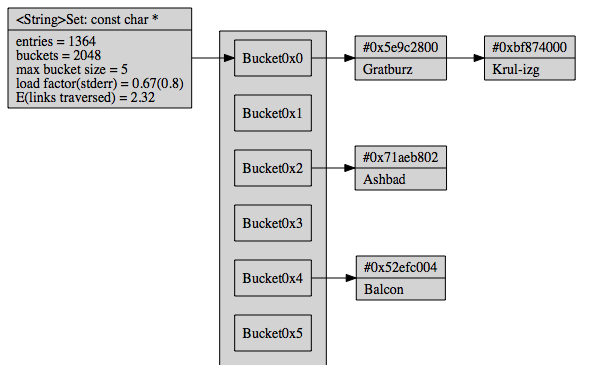
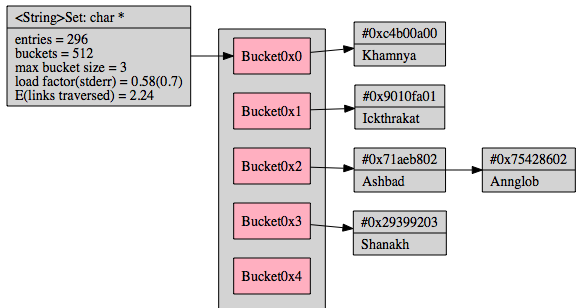
Pink.

diff --git a/test/TestSet.h b/test/TestSet.h
@@ -103,7 +103,7 @@ static void PE_(graph)(const struct E_(Set) *const set, const char *const fn) {
 		struct E_(SetElement) *x, *x_prev, *xt;
 		fprintf(fp, "\tsubgraph cluster_buckets {\n"
 			"\t\tstyle=filled;\n"
-			/*"\t\tnode [color=white];\n"*/);
+			"\t\tnode [fillcolor=lightpink];\n");
 		for(b = set->buckets, b_end = b + (1 << set->log_capacity);
 			b < b_end; b++) {
 			fprintf(fp, "\t\tBucket0x%x;\n",

diff --git a/test/TestSet.c b/test/TestSet.c
@@ -197,7 +197,7 @@ static struct IdSetElement *id_from_pool(void *const vboats) {
 
 int main(void) {
 	/* For non-automated tests. */
-	struct Boat bs[60000];
+	struct Boat bs[600/*00<-takes time to print*/];
 	size_t bs_size = sizeof bs / sizeof *bs;
 	struct IdSet ids = SET_ZERO;
 	/* For automated tests. */

diff --git a/src/Set.h b/src/Set.h
@@ -36,7 +36,6 @@
  Must be defined equal to a random filler function, satisfying
  <typedef:<PE>Action>. Requires `SET_TO_STRING`.
 
- @fixme The graph is boring.
  @std C89/90 */
 
 #include <stddef.h>	/* offsetof */
